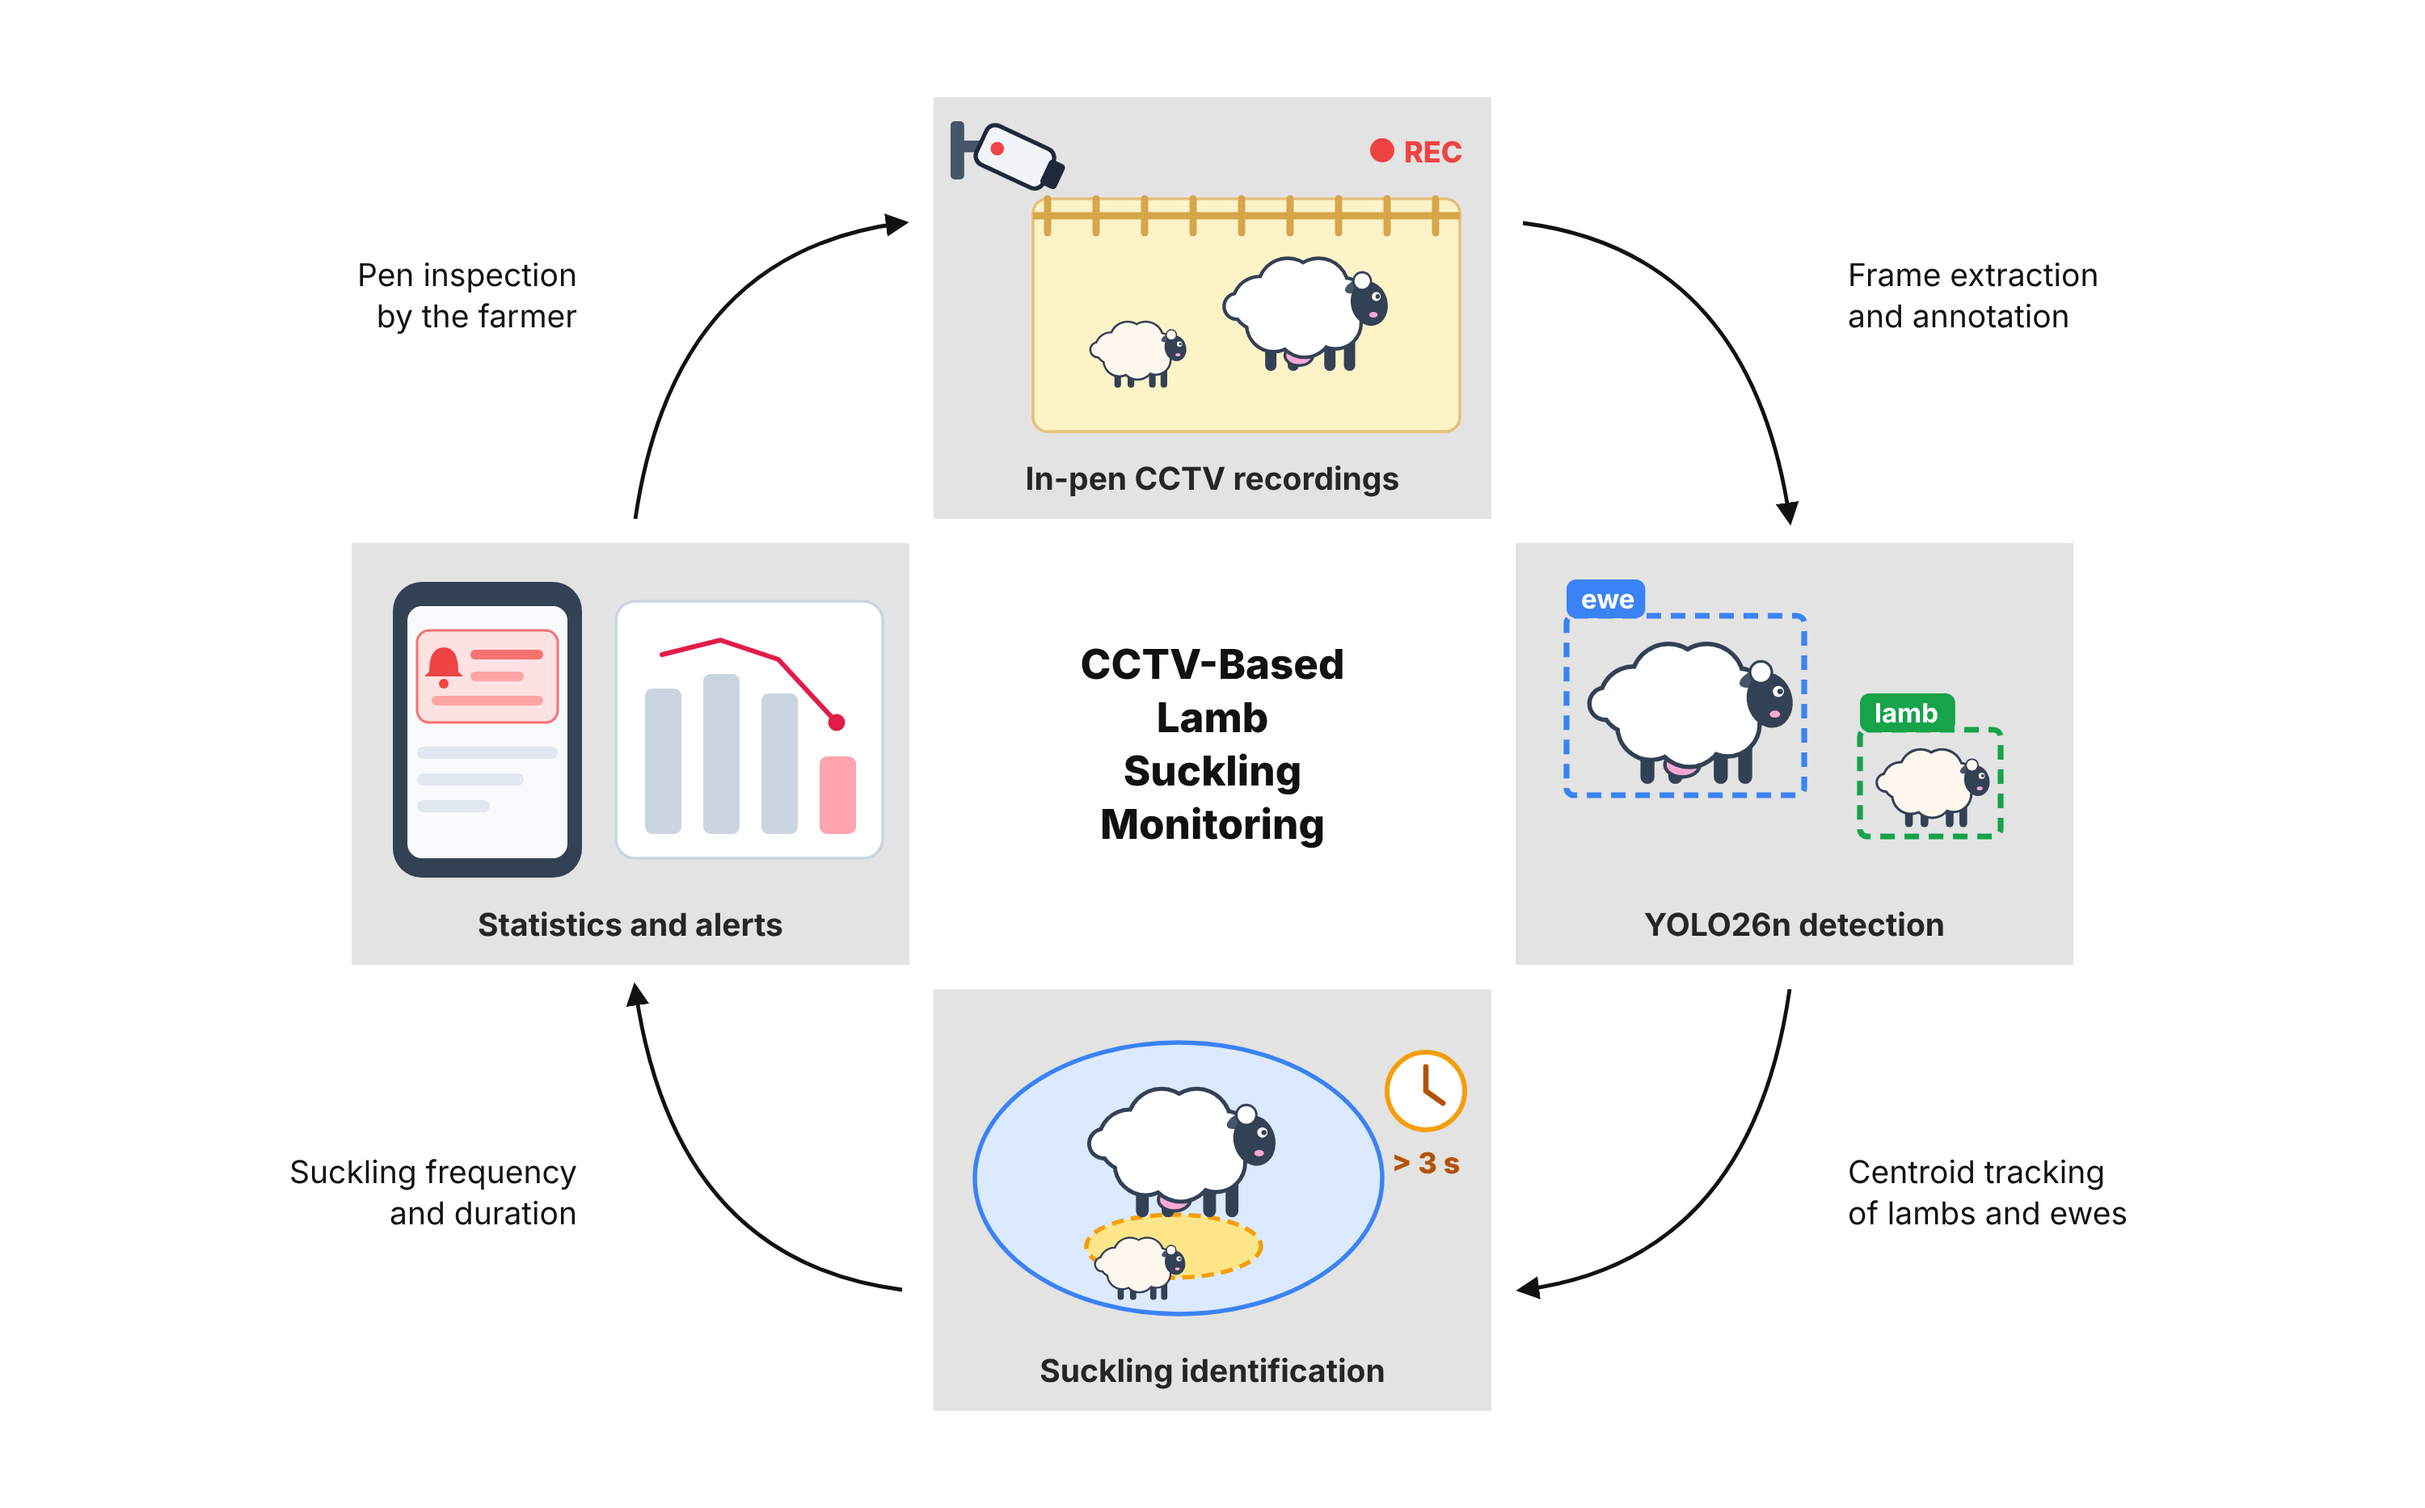
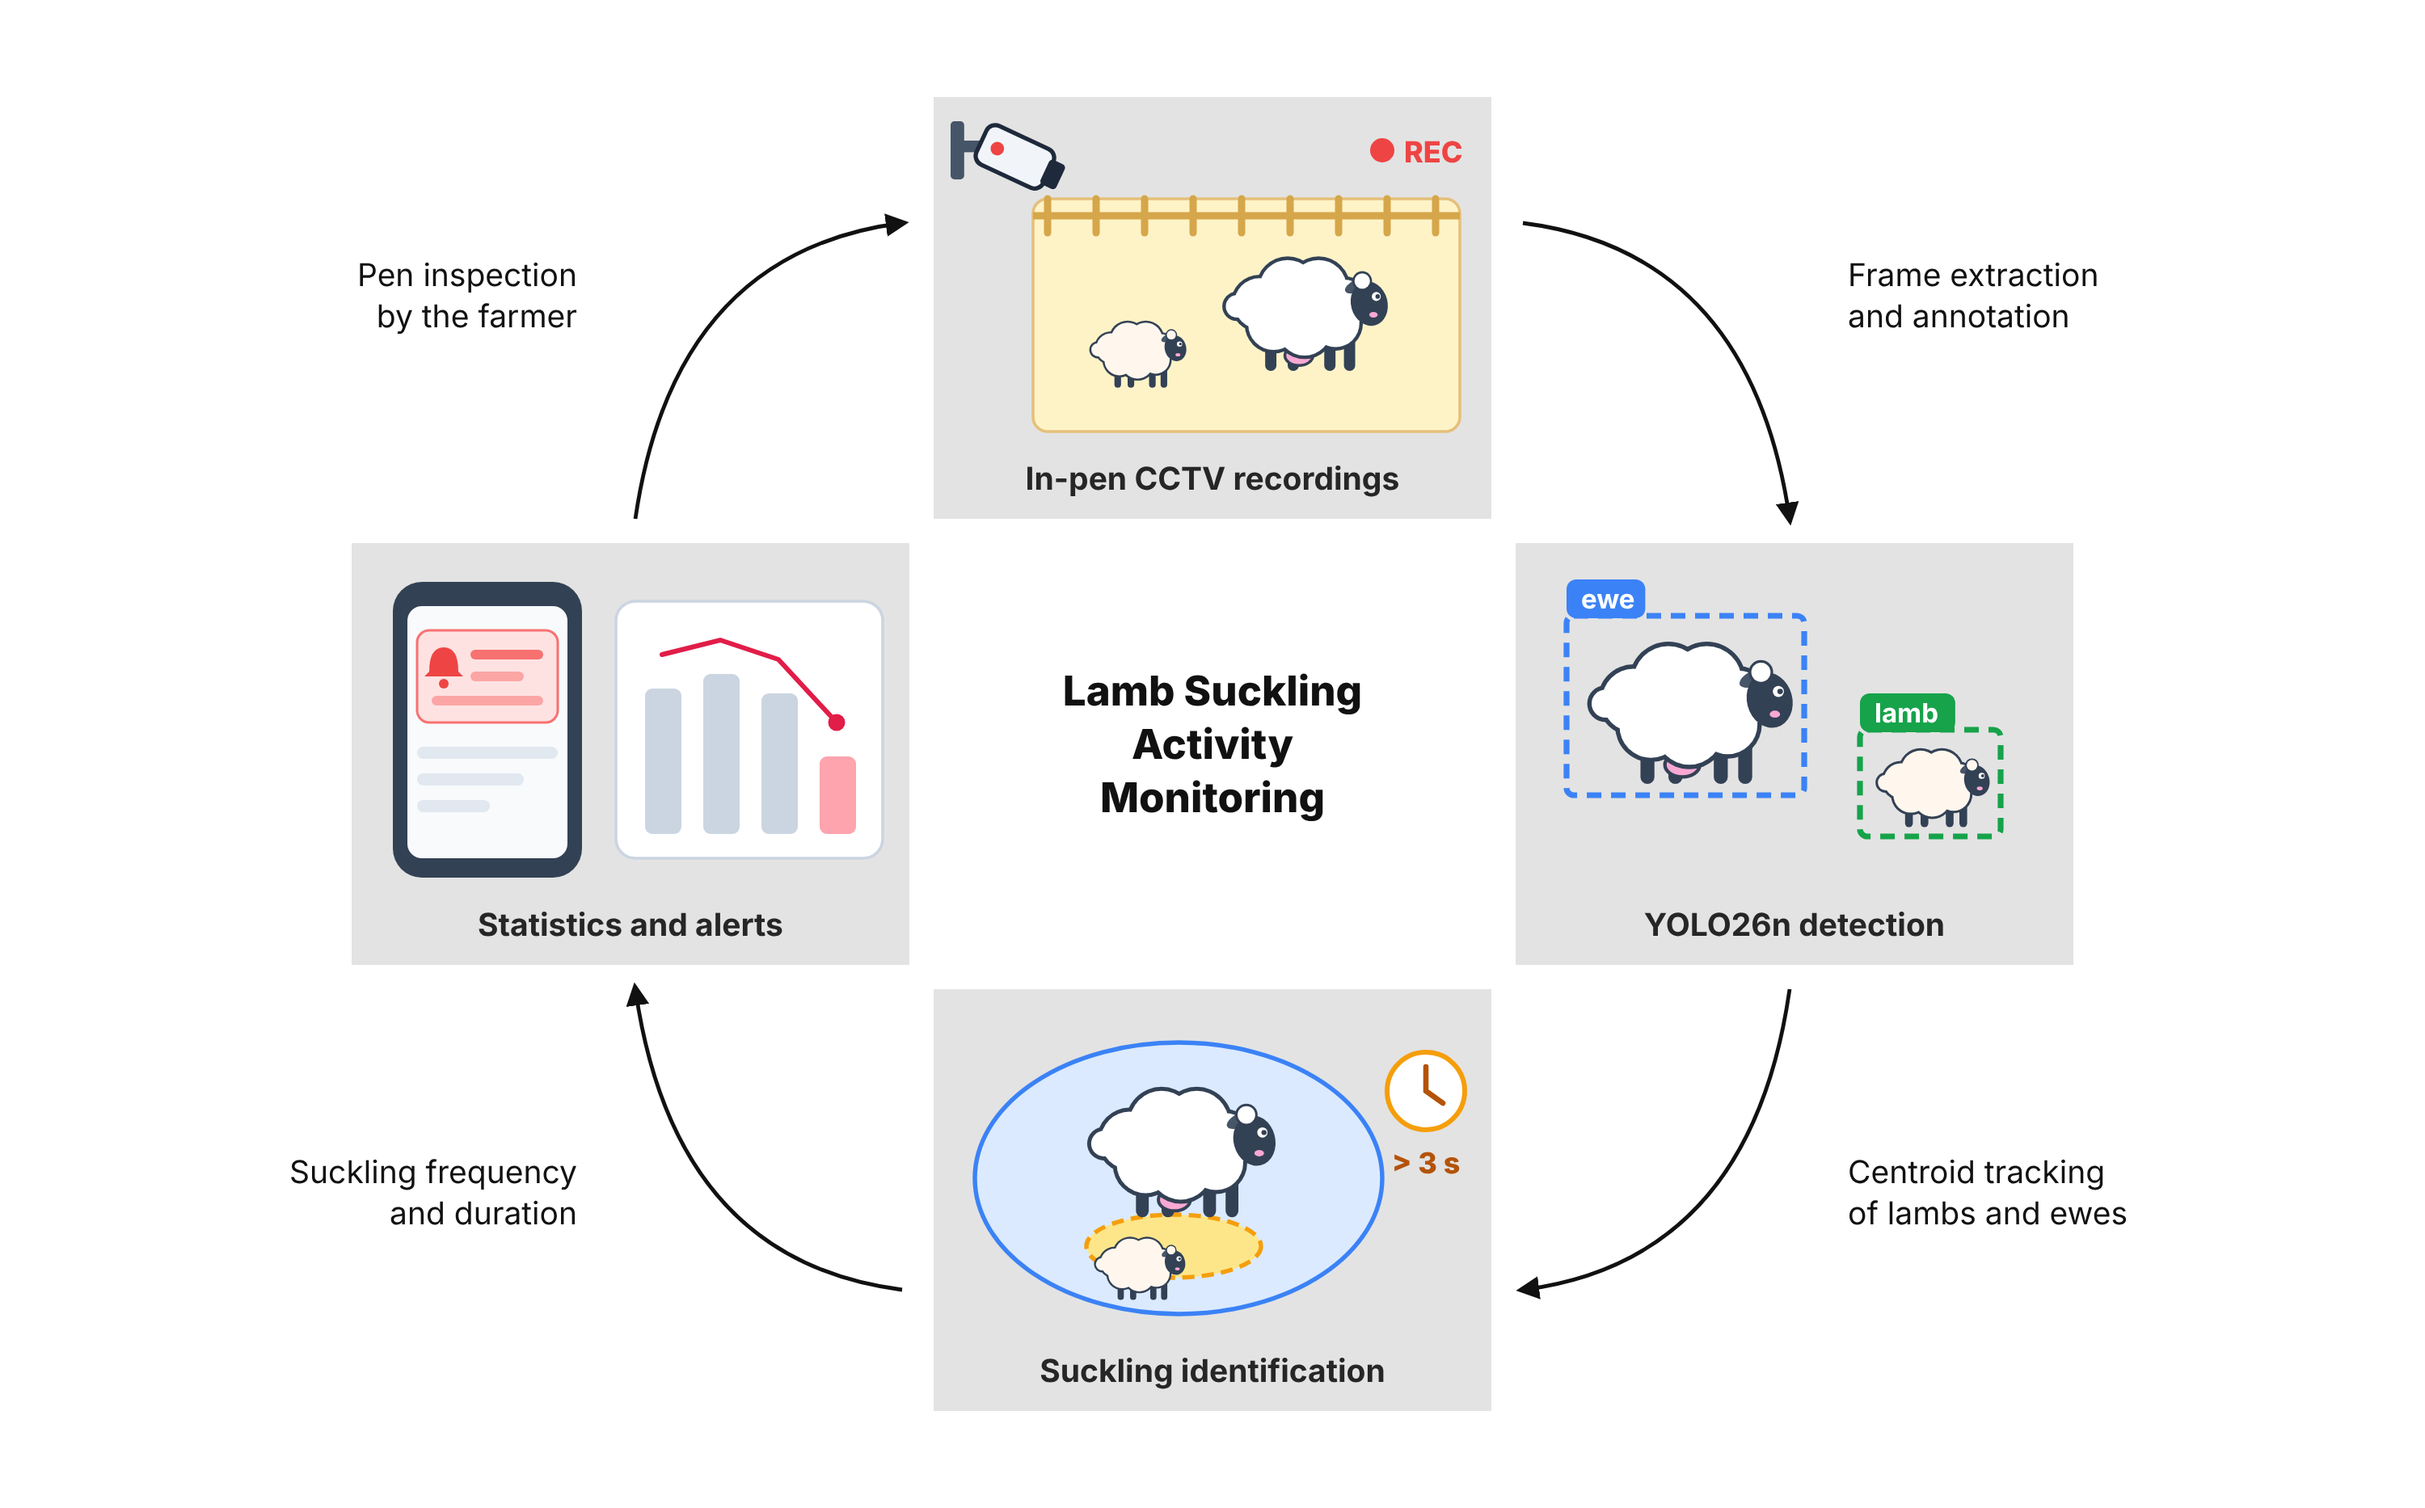
Retitle graphical summary to emphasize suckling activity monitoring
Claude-Session: https://claude.ai/code/session_016AUCqYmx9Fzv6vXDeVgD9F

Changed region(s): [[0.434, 0.4352, 0.558, 0.5595]]

diff --git a/tesis/sorotan_highlights.md b/tesis/sorotan_highlights.md
@@ -18,10 +18,10 @@
 
 Gambar: ringkasan_visual.png (300 dpi)
 
-Judul: Pemantauan Menyusu Anak Domba Berbasis CCTV
+Judul: Pemantauan Aktivitas Menyusu Anak Domba
 
 # GRAPHICAL SUMMARY
 
 Figure: graphical_summary.png (300 dpi)
 
-Title: CCTV-Based Lamb Suckling Monitoring
+Title: Lamb Suckling Activity Monitoring
